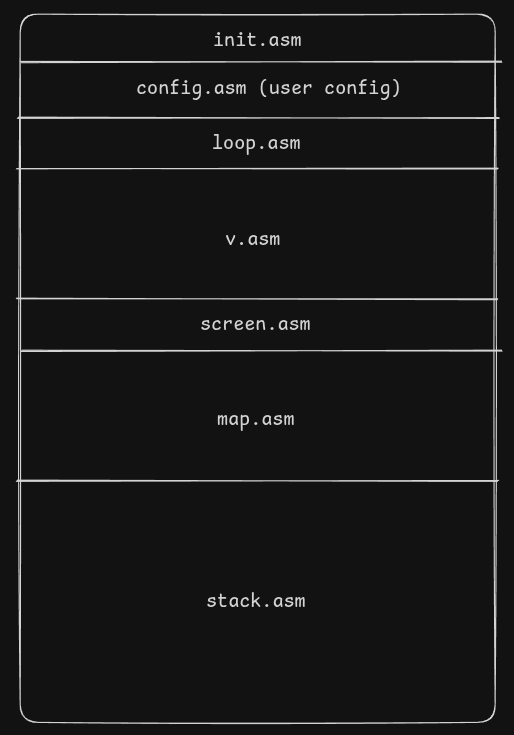
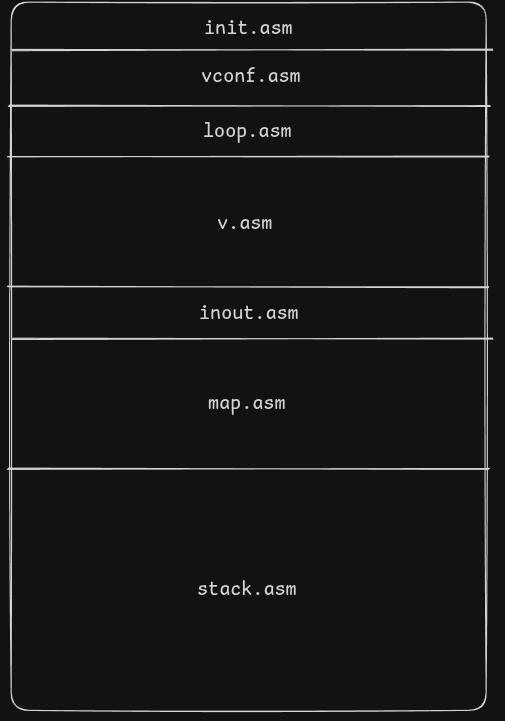
added [BROKEN] inout.asm

diff --git a/README.md b/README.md
@@ -33,10 +33,10 @@ The program is assembled like this:
 where:
 
 - `init.asm` adds commands to the command Map
-- `config.asm` possibly user adds commands to the command Map
+- `vconf.asm` possibly user adds commands to the command Map (can be any name)
 - `loop.asm` waits in loop for user commands
 - `v.asm` command implementations
-- `screen.asm` screen interface
+- `inout.asm` screen and keyboard interface
 - `map.asm` map interface
 - `stack.asm` stack interface
 
